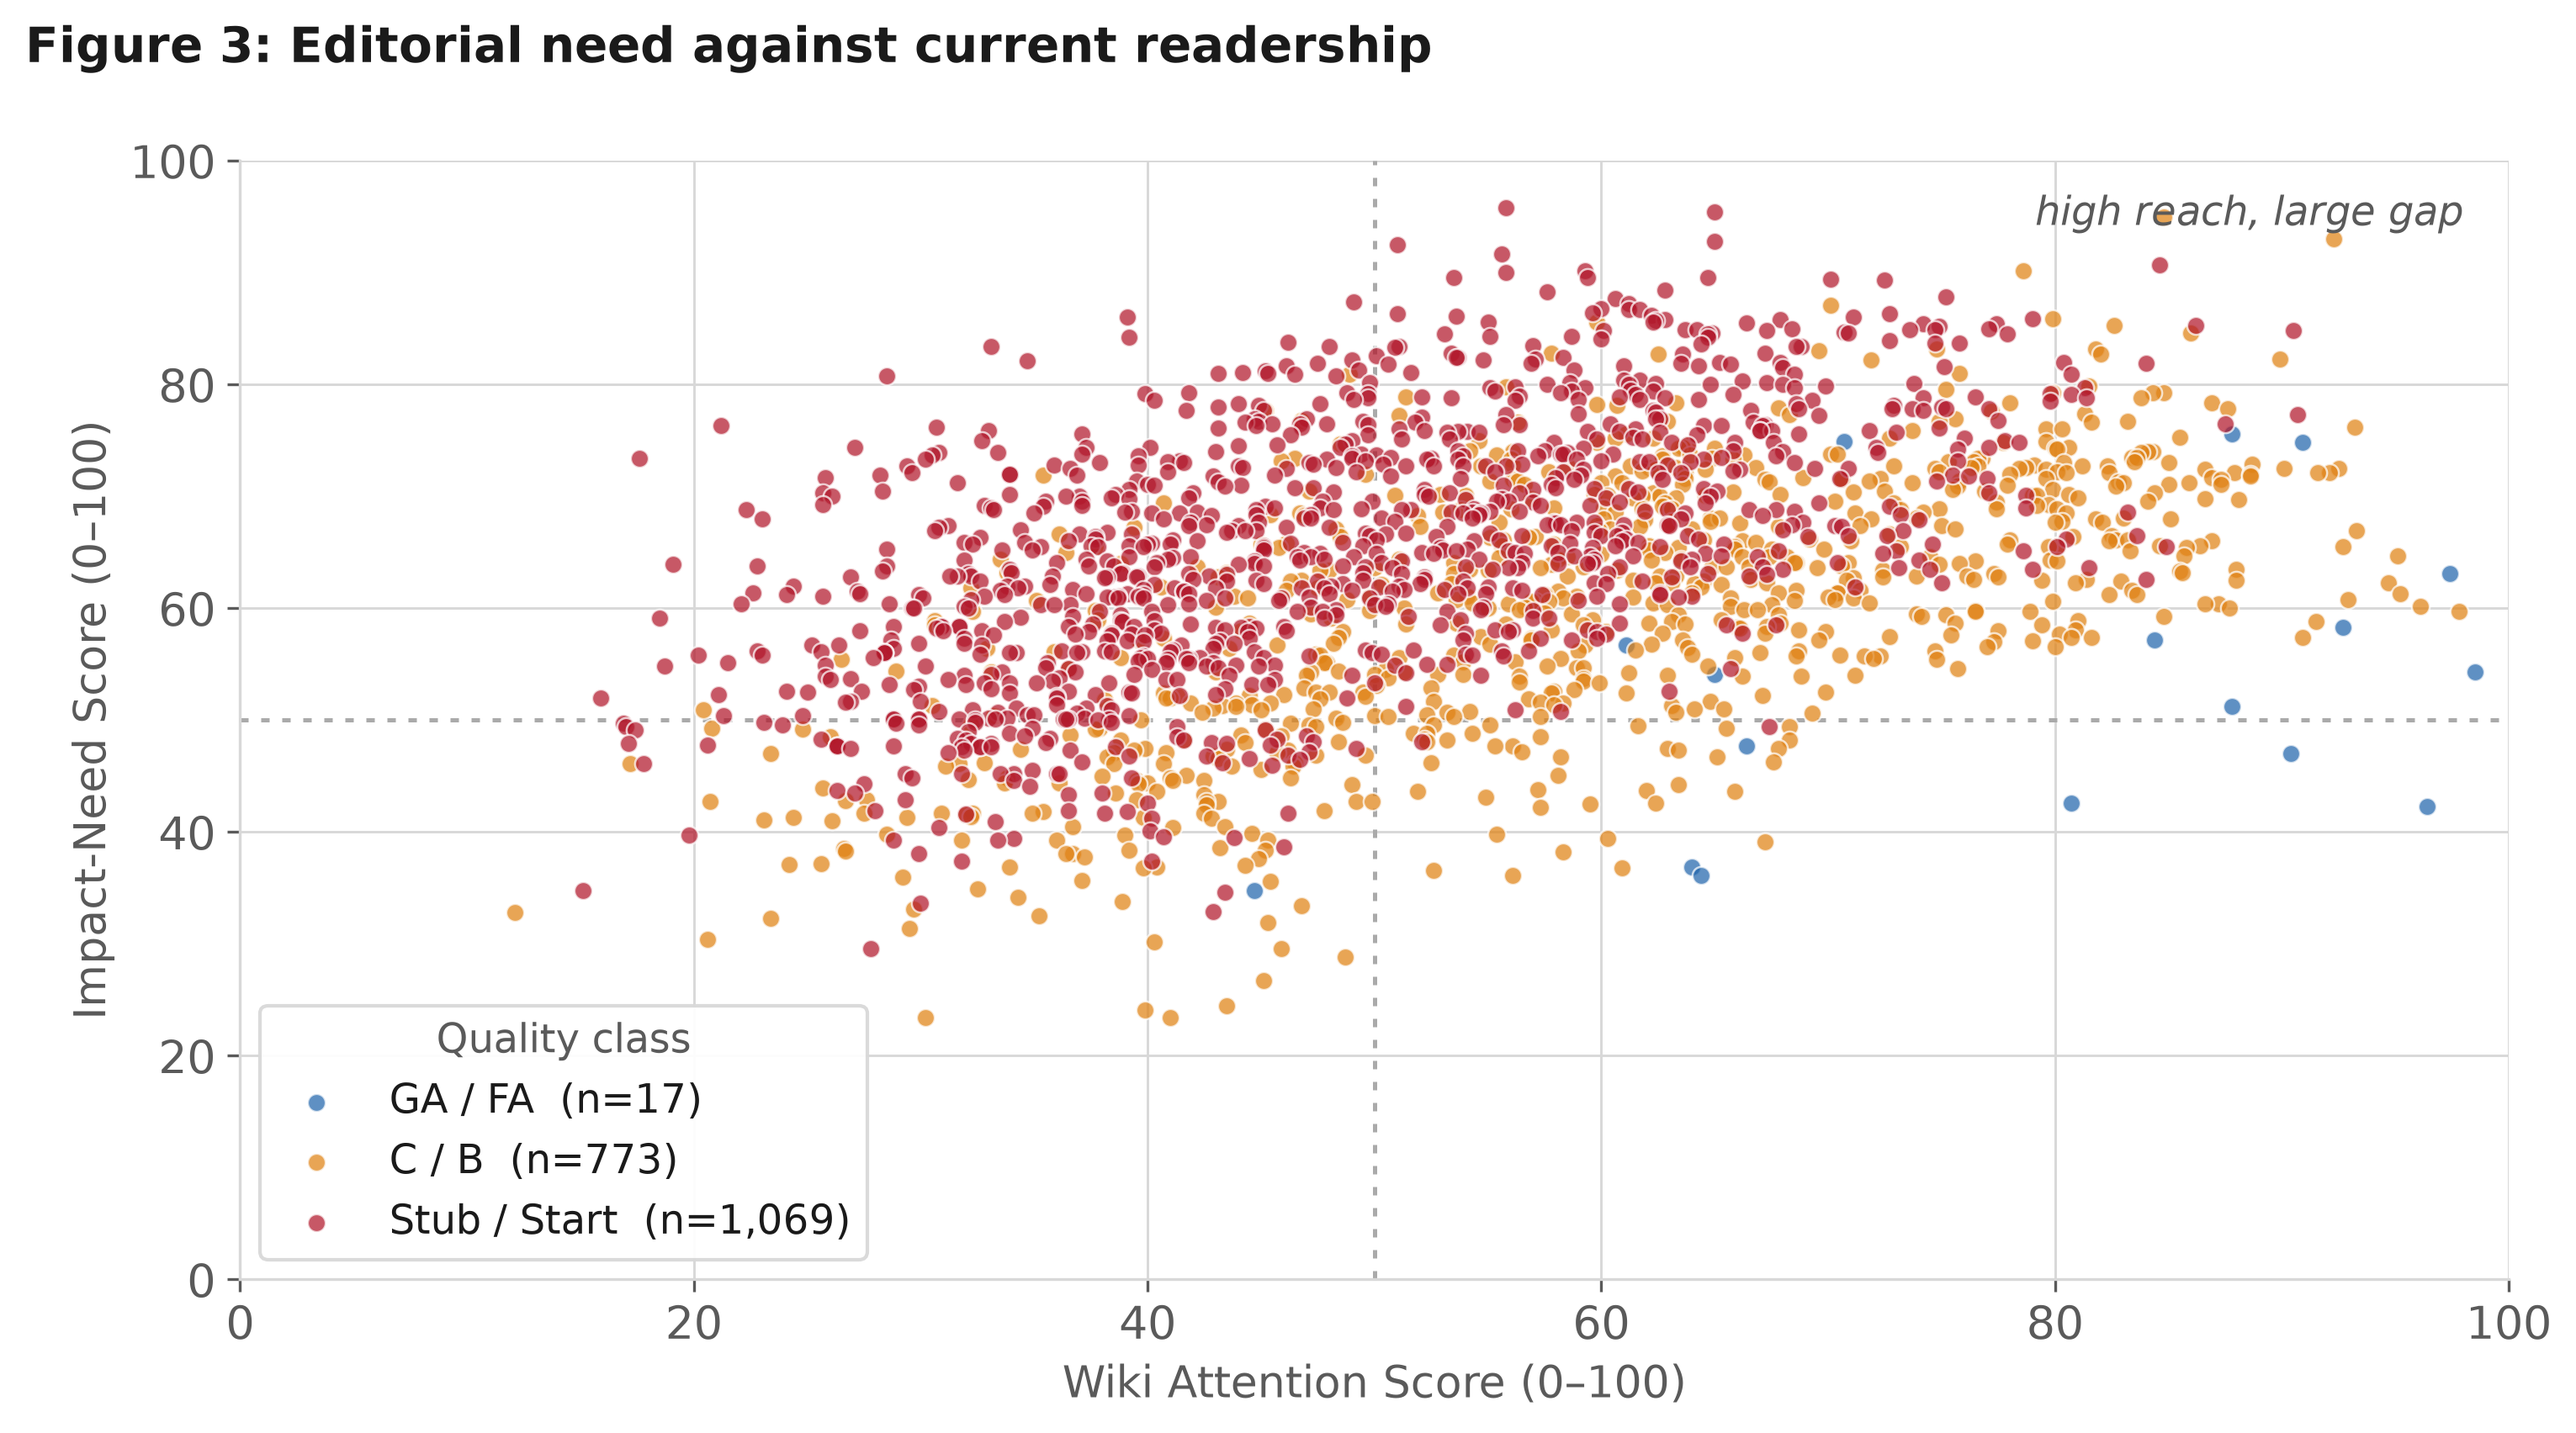
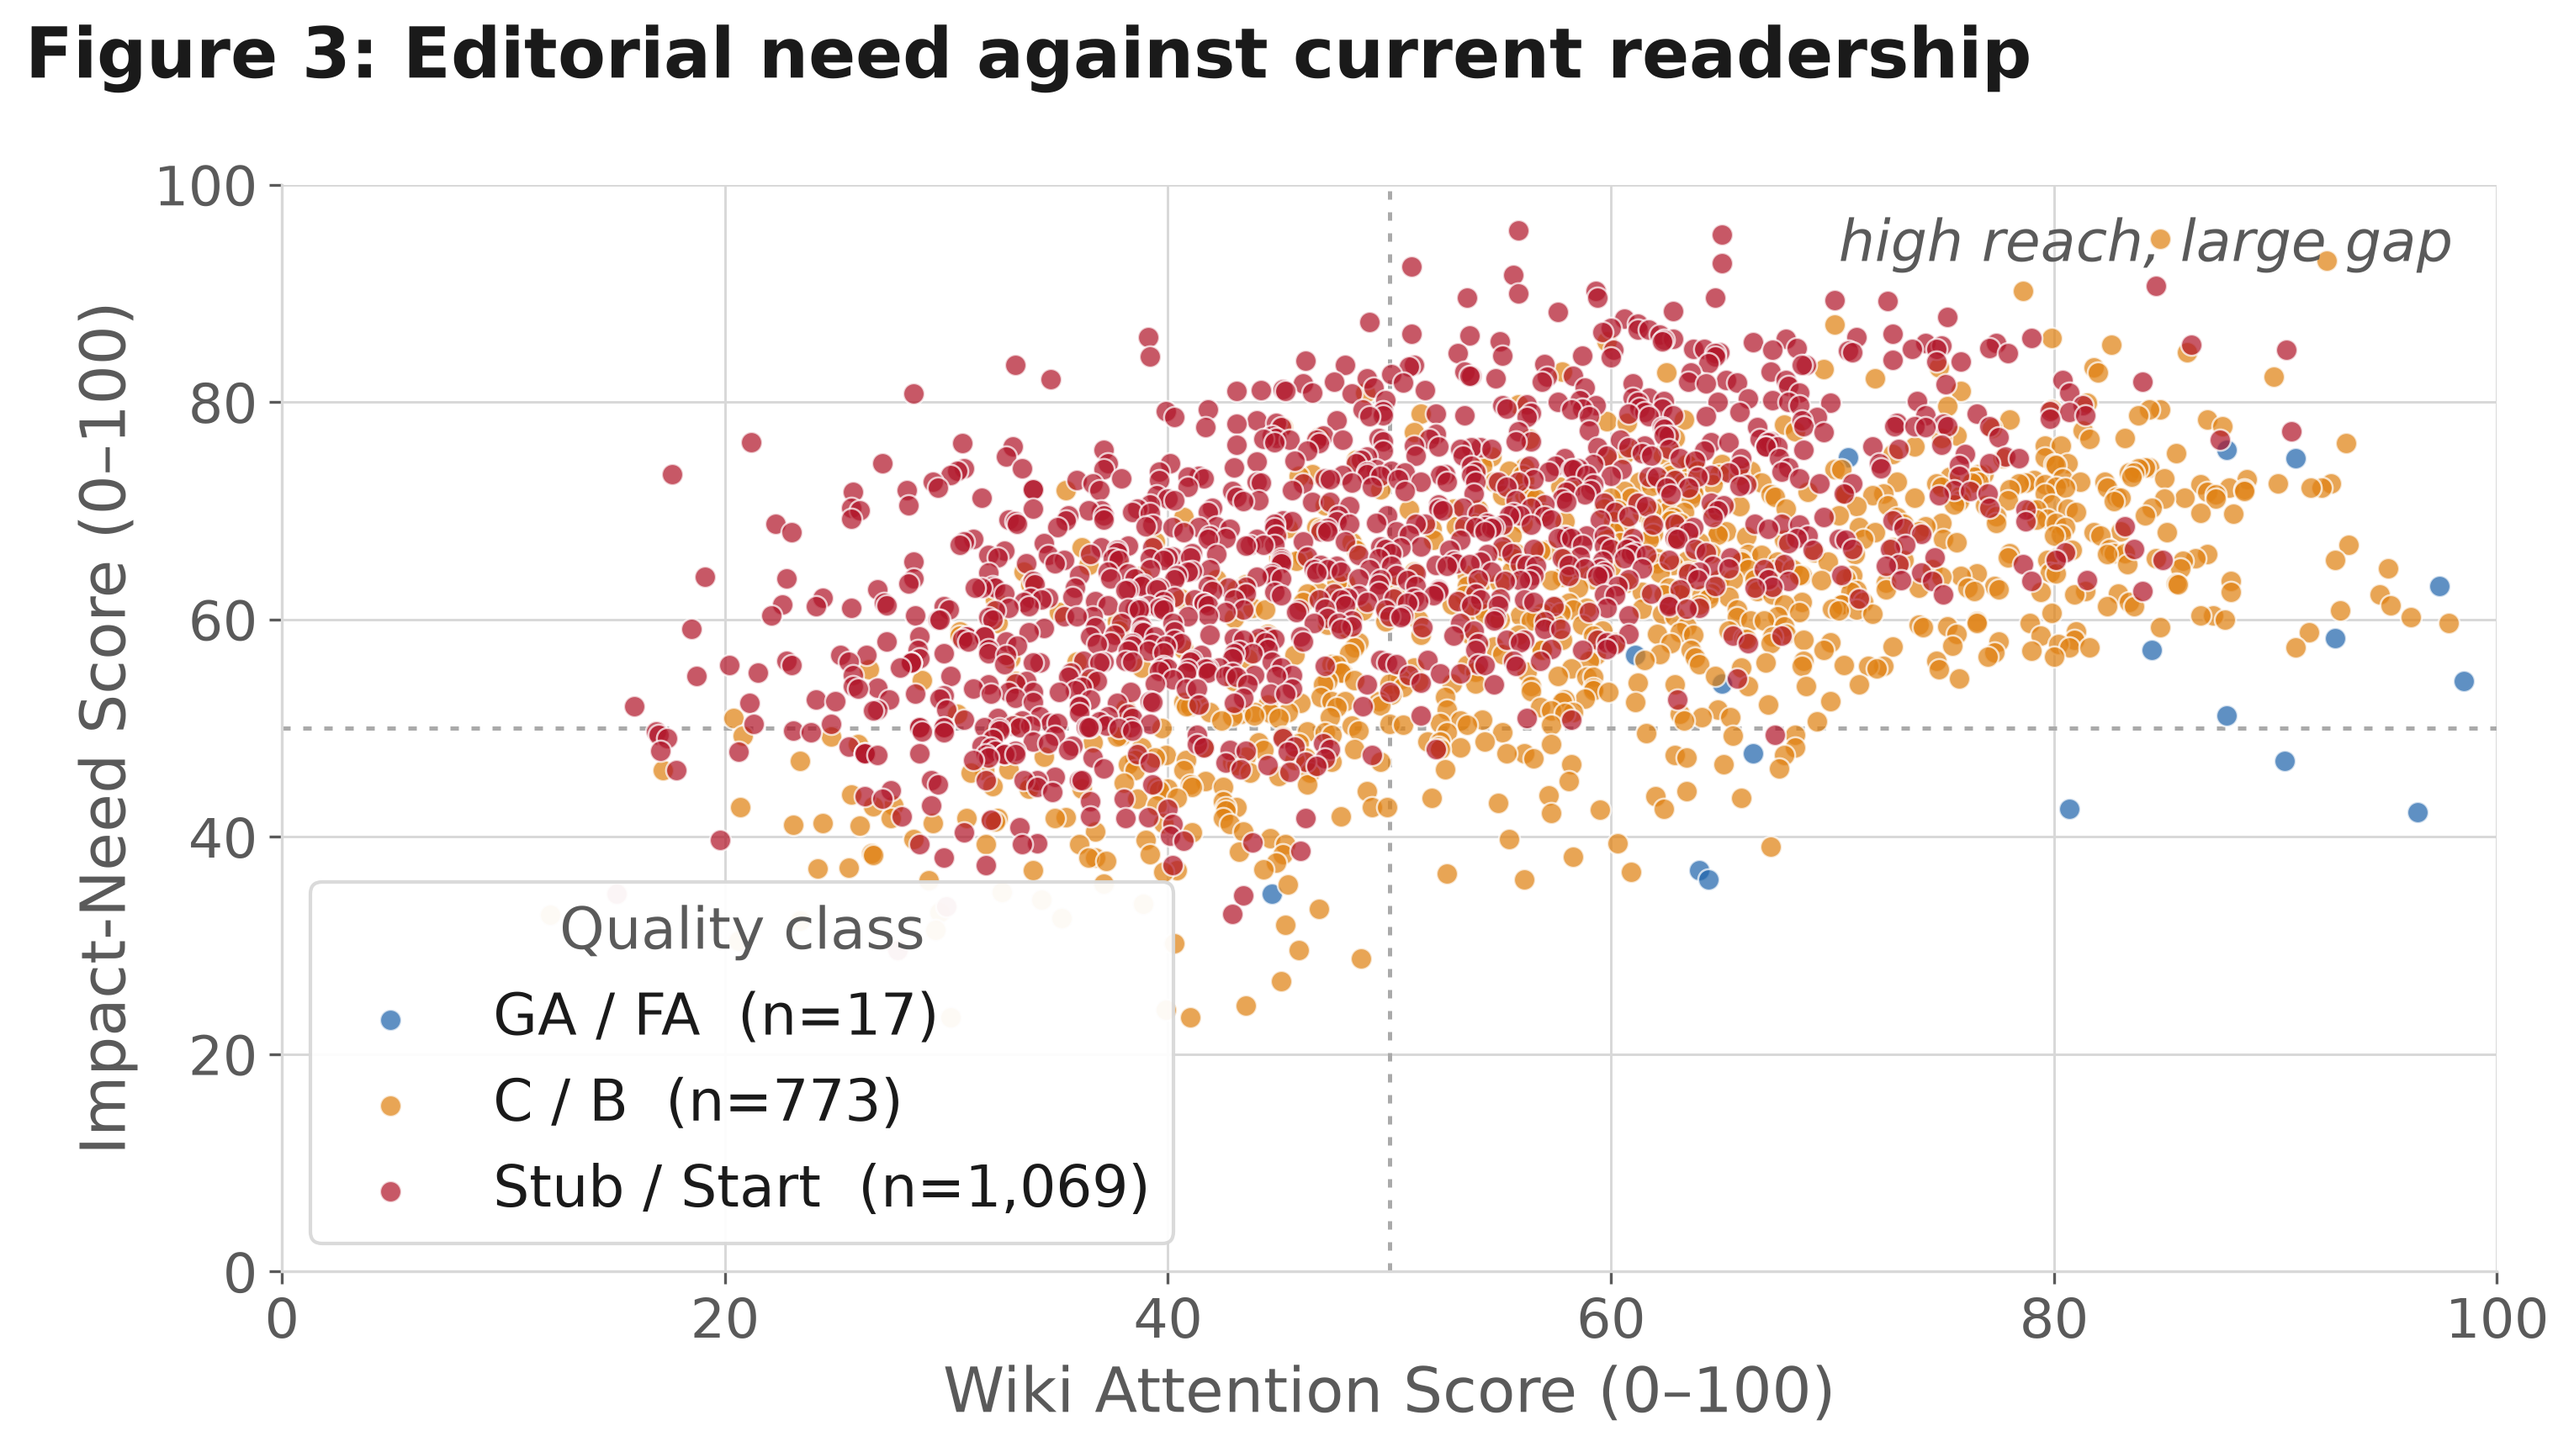
style: size figure type relative to figure width
Figure 3 is 10.2in wide against 7.2in for Figures 2, 4 and 5. At equal nominal
point sizes its text renders about 71% as large once both are scaled to the
same column width on the poster, which is why its title looked smaller than
the others despite both being set at 14pt.

fig_title now scales against a 7.2in reference, and Figure 3's axis labels,
tick labels, legend and marker area scale by the same factor, so the whole
figure matches rather than just its title. Figures 2, 4 and 5 are unchanged,
being at the reference width.

diff --git a/tools_make_nci_poster_figures.py b/tools_make_nci_poster_figures.py
@@ -105,10 +105,18 @@ def save(fig, name, attempts=6):
                 raise
             time.sleep(0.75)
 
+REF_W = 7.2   # width most poster figures are drawn at
+
+
 def fig_title(fig, num, text):
-    """Numbered title, flush to the figure's left edge rather than the axes'."""
+    """Numbered title, flush left, sized relative to the figure's width.
+
+    A fixed point size looks smaller on a wider figure once both are scaled to
+    the same column width on the poster, so scale against REF_W instead.
+    """
+    k = fig.get_size_inches()[0] / REF_W
     fig.text(0.0, 1.015, f"Figure {num}: {text}", ha="left", va="bottom",
-             fontsize=14, weight="bold", color=INK)
+             fontsize=14 * k, weight="bold", color=INK)
 
 
 def fig_mesh_cascade():
@@ -272,25 +280,28 @@ def fig_scatter(can):
     # Landscape rather than near-square. Both axes are 0-100 but they measure
     # different things, so equal aspect buys nothing and a wider frame spreads
     # the dense 40-80 band enough to read at poster distance.
-    fig, ax = plt.subplots(figsize=(10.2, 5.4))
+    FIG_W = 10.2
+    K = FIG_W / REF_W          # keeps type matched to the 7.2in figures
+    fig, ax = plt.subplots(figsize=(FIG_W, 5.4))
+    ax.tick_params(labelsize=11 * K)
     ax.axvline(50, color="#AAAAAA", ls=(0, (2, 3)), lw=1.2, zorder=1)
     ax.axhline(50, color="#AAAAAA", ls=(0, (2, 3)), lw=1.2, zorder=1)
     for lab in ["GA / FA", "C / B", "Stub / Start"]:
         sub = s[s["q3"] == lab]
         ax.scatter(sub["wiki_attention_score"], sub["impact_need_score"],
-                   s=26, c=Q3[lab], label=f"{lab}  (n={len(sub):,})",
+                   s=26 * K, c=Q3[lab], label=f"{lab}  (n={len(sub):,})",
                    alpha=0.72, linewidths=0.6, edgecolors=SURFACE, zorder=3)
     ax.set_xlim(0, 100); ax.set_ylim(0, 100)
-    ax.set_xlabel("Wiki Attention Score (0–100)", fontsize=12.5, color=INK_MUTED)
-    ax.set_ylabel("Impact-Need Score (0–100)", fontsize=12.5, color=INK_MUTED)
+    ax.set_xlabel("Wiki Attention Score (0–100)", fontsize=12.5 * K, color=INK_MUTED)
+    ax.set_ylabel("Impact-Need Score (0–100)", fontsize=12.5 * K, color=INK_MUTED)
     ax.grid(True, color=GRID, lw=0.7, zorder=0)
     ax.set_axisbelow(True)
     despine(ax)
     ax.text(98, 97, "high reach, large gap", ha="right", va="top",
-            fontsize=11.5, color=INK_MUTED, style="italic")
-    leg = ax.legend(loc="lower left", frameon=True, fontsize=11.5,
+            fontsize=11.5 * K, color=INK_MUTED, style="italic")
+    leg = ax.legend(loc="lower left", frameon=True, fontsize=11.5 * K,
                     framealpha=0.95, edgecolor=GRID, title="Quality class")
-    leg.get_title().set_fontsize(11.5)
+    leg.get_title().set_fontsize(11.5 * K)
     leg.get_title().set_color(INK_MUTED)
     fig_title(fig, 3, "Editorial need against current readership")
     fig.tight_layout()
